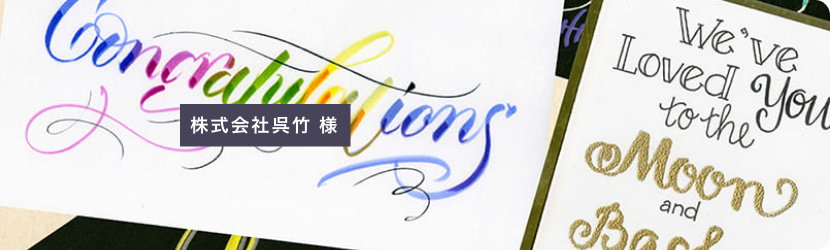
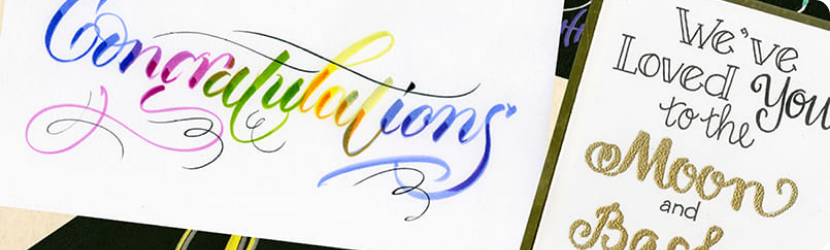
companyまで

Changed region(s): [[0.2108, 0.392, 0.4217, 0.588]]

diff --git a/index.html b/index.html
@@ -562,18 +562,95 @@
                         <img class="" src="/img/chat@2x.png" alt="">
                     </div>
 
-                    <img class="boundary" src="/img/kuretake@2x.png" alt="">
                 </div>
 
             </section><!-- compare end  -->
 
             <section class="works">
                 <div class="container">
-                    <img src="/img/sea-weed.png" alt="">
-                    <p class="lead">企業実績紹介</p>
-                    <h2>Works</h2>
+                    <div class="works__heading__area">
+                        <img src="/img/sea-weed.png" alt="">
+                        <div>
+                            <p class="works__lead">企業実績紹介</p>
+                            <h2 class="works__title">Works</h2>
+                        </div>
+                    </div>
                 </div>
-            </section><!-- workd end  -->
+
+                <div class="works__company">
+                    <div class="works__company__area">
+                        <img class="boundary" src="/img/kuretake@2x.png" alt="">
+                        <h1>株式会社呉竹 様</h1>
+                    </div>
+
+                    <div class="works__company__content container">
+                        <div class="works__company__content__heading">
+                            <img class="logo" src="/img/kuretake_logo.png" alt="">
+                        </div>
+                        <div class="profile">
+                            <div class="profile__story">
+                                <div class="profile__title">
+                                    <h3 class="">プロフィール</h3>
+                                    <p>書道関係や、筆ペンなどの<span>筆記用具を製造</span>する、来年<span>120年を迎える奈良のメーカー</span>です。</p>
+                                </div>
+                                <div class="profile__story__list">
+                                    <div class="profile__story__list__group1">
+                                        <h3>PORTEARTHと出会ったきっかけは？</h3>
+                                        <p>立石さん:弊社の商品を販売したいというところで、始めは<span>得意先として関係がスタート</span>しました。</p>
+                                    </div>
+                                    <div class="profile__story__list__group2">
+                                        <h3>PORTEARTHを選んだ決め手は何ですか？</h3>
+                                        <p>立石さん:<span>メーカーの立ち位置を理解してもらえる</span>ことと、<span>販売者としての知見が優れていた</span>為です。</p>
+                                    </div>
+                                </div>
+                            </div>
+                            <div class="profile__img">
+                                <p class="detail">国際部マネージャー<br>立石 翔さん</p>
+                                <img src="/img/tateishi.png" alt="">
+                                <p>立石翔さんのプロフィールはこちら</p>
+                            </div>
+                        </div>
+                    </div>
+                </div><!-- works__company end  -->
+
+                <div class="works__company">
+                    <div class="works__company__area">
+                        <img class="boundary" src="/img/designsetta@2x.png" alt="">
+                        <h1>株式会社DESIGHN SETTA SANGO 様</h1>
+                    </div>
+
+                    <div class="works__company__content container">
+                        <div class="works__company__content__heading">
+                            <img class="logo" src="/img/designsetta_logo@2x.png" alt="">
+                        </div>
+                        <div class="profile">
+                            <div class="profile__story">
+                                <div class="profile__title">
+                                    <h3 class="">プロフィール</h3>
+                                    <p>2009年ぬ奈良県三郷町で<span>夫婦2人でカフェをはじめ</span>、その後三郷町の地場産業である<span>草履の職人</span>である芝崎夫婦と出会い、
+                                        <span>「カフェに来店する女性にオシャレに日常履きできるセッタ」</span>をテーマにしたDESIGN SETTA
+                                        SANGOを2013年よりイベントからスタート。<br>
+                                        <span>2015年法人化し、セッタブランドとして本格始動。</span>ブランドコンセプトは<span>「セッタを世界のスタンダードに」</span>
+                                    </p>
+                                </div>
+                                <div class="profile__story__list">
+                                    <div class="profile__story__list__group1">
+                                        <h3>PORTEARTHと出会ったきっかけは？</h3>
+                                        <p>星田さん:<span>ミラノデザインウィークに出展</span>した際に出会ったFedExの<span>担当の方からご紹介</span>いただきました。
+                                        </p>
+                                    </div>
+                                </div>
+                            </div>
+                            <div class="profile__img">
+                                <p class="detail">代表取締役<br>星田 和彦さん</p>
+                                <img src="/img/hoshida.png" alt="">
+                                <p>星田和彦さんのプロフィールはこちら</p>
+                            </div>
+                        </div>
+                    </div>
+                </div><!-- works__company end  -->
+
+            </section><!-- works end  -->
 
             .
         </main>

diff --git a/scss/_works.scss b/scss/_works.scss
@@ -1,3 +1,163 @@
 .works {
+
+    &__lead {
+        color: $secondary-color;
+    }
+
+    &__title {
+        font-size: 4rem;
+        font-weight: 100;
+    }
+
+    &__heading__area {
+        display: flex;
+        align-items: flex-end;
+
+        div {
+            margin-left: 3rem;
+        }
+    }
+
+    .works__company {
+
+        &__area {
+            position: relative;
+    
+            .boundary {
+                margin-top: 5rem;
+            }
+            
+            h1 {
+                background-color: $primary-color;
+                color: #fff;
+                font-size: 2.5rem;
+                font-weight: 100;
+                display: inline-block;
+                padding: 0.7rem;
+                position: absolute;
+                top: 20rem;
+                left: 20rem;
+            }
+        }
+    
+        &__content {
+            margin-top: 7rem;
+    
+            .logo {
+                width: 17rem;
+            }
+    
+            .profile {
+                margin-top: 6rem;
+                display: flex;
+                justify-content: space-around;
+    
+                &__title {
+    
+                    h3 {
+                        font-size: 1.5rem;
+                        padding-left: 2rem;
+                        margin-bottom: 3rem;
+                        border-left: 1.5px solid #000;
+                    }
+    
+                    p {
+                        font-size: 1.6rem;
+                        line-height: 3.3rem;
+
+                        span {
+                            font-weight: bold;
+                        }
+                    }
+                }
+    
+    
+                &__img {
+                    margin-left: 3rem;
+    
+                    .detail {
+                        font-size: 1.5rem;
+                        text-align: center;
+                        color: #C7A778;
+                        position: relative;
+                        left: 7.5rem;
+    
+                        &::before {
+                            content: url('/img/line_gold.png');
+                            position: absolute;
+                            top: 1.5rem;
+                            left: 3rem;
+                        }
+                        &::after {
+                            content: url('/img/line_gold2.png');
+                            position: absolute;
+                            top: 1.5rem;
+                            right: 3rem;
+                        }
+                    }
+                    img {
+                        width: 170%;
+                    }
+                }
+                
+                &__story {
+                    width: 90rem;
+                    
+                    &__list {
+                        margin-top: 8rem;
+    
+                        h3 {
+                            font-size: 1.7rem;
+                            
+                            &::before {
+                                content: '';
+                                display: inline-block;
+                                width: 5rem;
+                                height: 5rem;
+                                background-image: url(/img/q1@2x.png);
+                                background-size: contain;
+                                vertical-align: middle;
+                                margin-right: 2rem;
+                            }
+                        }
+    
+                        p {
+                            font-size: 1.3rem;
+                            line-height: 3rem;
+    
+                            span {
+                                font-weight: bold;
+                            } 
+                        }
+                        
+                        &__group1 {
+                            margin-bottom: 3rem;
+    
+                            &::before {
+                                content: 'Q1';
+                                font-size: 3rem;
+                                color: #fff;
+                                position: relative;
+                                top: 4.8rem;
+                                left: 0.5rem;
+                            }
+                        }
+                        &__group2 {
+    
+                            &::before {
+                                content: 'Q2';
+                                font-size: 3rem;
+                                color: #fff;
+                                position: relative;
+                                top: 4.8rem;
+                                left: 0.4rem;
+                            }
+                        }
+                    }
+                }
+            }
+        }
+    }
+
     
 }

diff --git a/css/main.css b/css/main.css
@@ -1279,6 +1279,132 @@
   height: 40rem;
 }
 
+.works__lead {
+  color: #F28E3D;
+}
+.works__title {
+  font-size: 4rem;
+  font-weight: 100;
+}
+.works__heading__area {
+  display: flex;
+  align-items: flex-end;
+}
+.works__heading__area div {
+  margin-left: 3rem;
+}
+.works .works__company__area {
+  position: relative;
+}
+.works .works__company__area .boundary {
+  margin-top: 5rem;
+}
+.works .works__company__area h1 {
+  background-color: #474359;
+  color: #fff;
+  font-size: 2.5rem;
+  font-weight: 100;
+  display: inline-block;
+  padding: 0.7rem;
+  position: absolute;
+  top: 20rem;
+  left: 20rem;
+}
+.works .works__company__content {
+  margin-top: 7rem;
+}
+.works .works__company__content .logo {
+  width: 17rem;
+}
+.works .works__company__content .profile {
+  margin-top: 6rem;
+  display: flex;
+  justify-content: space-around;
+}
+.works .works__company__content .profile__title h3 {
+  font-size: 1.5rem;
+  padding-left: 2rem;
+  margin-bottom: 3rem;
+  border-left: 1.5px solid #000;
+}
+.works .works__company__content .profile__title p {
+  font-size: 1.6rem;
+  line-height: 3.3rem;
+}
+.works .works__company__content .profile__title p span {
+  font-weight: bold;
+}
+.works .works__company__content .profile__img {
+  margin-left: 3rem;
+}
+.works .works__company__content .profile__img .detail {
+  font-size: 1.5rem;
+  text-align: center;
+  color: #C7A778;
+  position: relative;
+  left: 7.5rem;
+}
+.works .works__company__content .profile__img .detail::before {
+  content: url("/img/line_gold.png");
+  position: absolute;
+  top: 1.5rem;
+  left: 3rem;
+}
+.works .works__company__content .profile__img .detail::after {
+  content: url("/img/line_gold2.png");
+  position: absolute;
+  top: 1.5rem;
+  right: 3rem;
+}
+.works .works__company__content .profile__img img {
+  width: 170%;
+}
+.works .works__company__content .profile__story {
+  width: 90rem;
+}
+.works .works__company__content .profile__story__list {
+  margin-top: 8rem;
+}
+.works .works__company__content .profile__story__list h3 {
+  font-size: 1.7rem;
+}
+.works .works__company__content .profile__story__list h3::before {
+  content: "";
+  display: inline-block;
+  width: 5rem;
+  height: 5rem;
+  background-image: url(/img/q1@2x.png);
+  background-size: contain;
+  vertical-align: middle;
+  margin-right: 2rem;
+}
+.works .works__company__content .profile__story__list p {
+  font-size: 1.3rem;
+  line-height: 3rem;
+}
+.works .works__company__content .profile__story__list p span {
+  font-weight: bold;
+}
+.works .works__company__content .profile__story__list__group1 {
+  margin-bottom: 3rem;
+}
+.works .works__company__content .profile__story__list__group1::before {
+  content: "Q1";
+  font-size: 3rem;
+  color: #fff;
+  position: relative;
+  top: 4.8rem;
+  left: 0.5rem;
+}
+.works .works__company__content .profile__story__list__group2::before {
+  content: "Q2";
+  font-size: 3rem;
+  color: #fff;
+  position: relative;
+  top: 4.8rem;
+  left: 0.4rem;
+}
+
 * {
   padding: 0;
   margin: 0;
